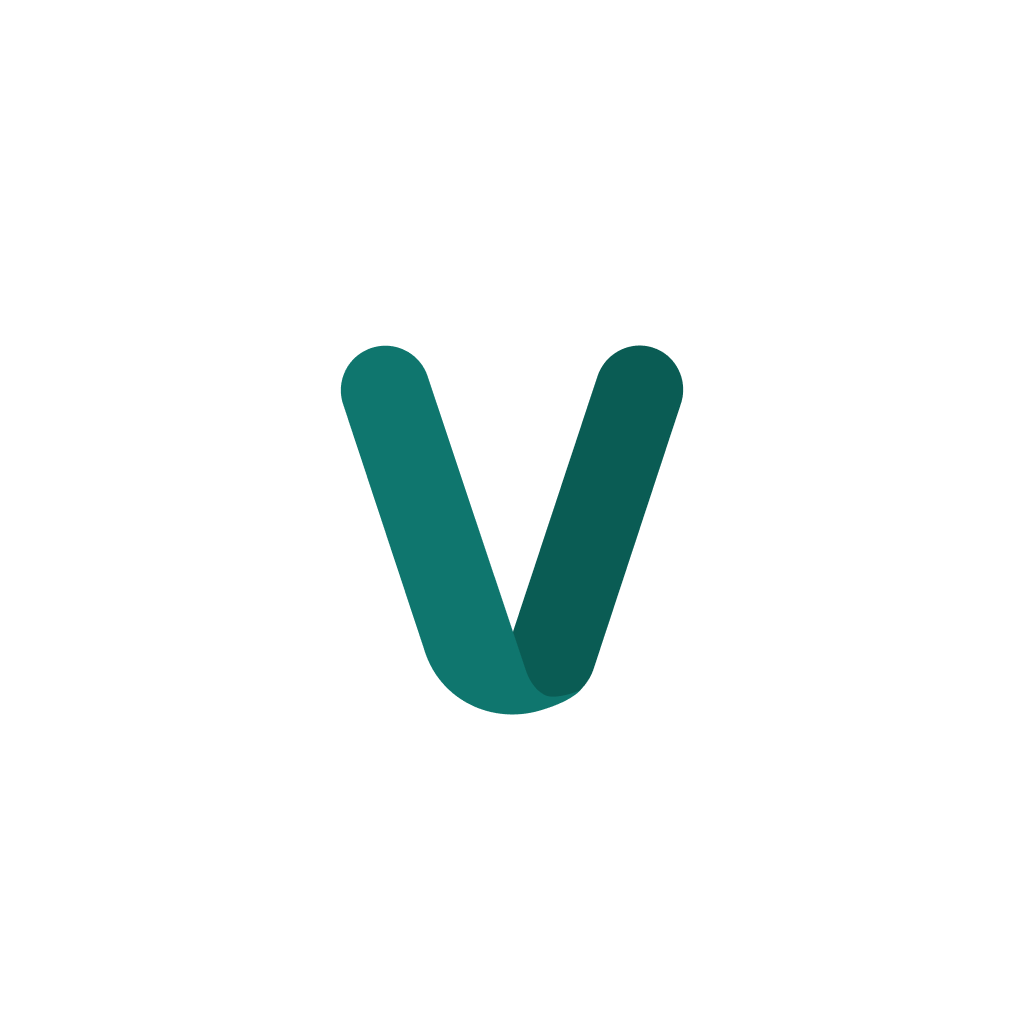
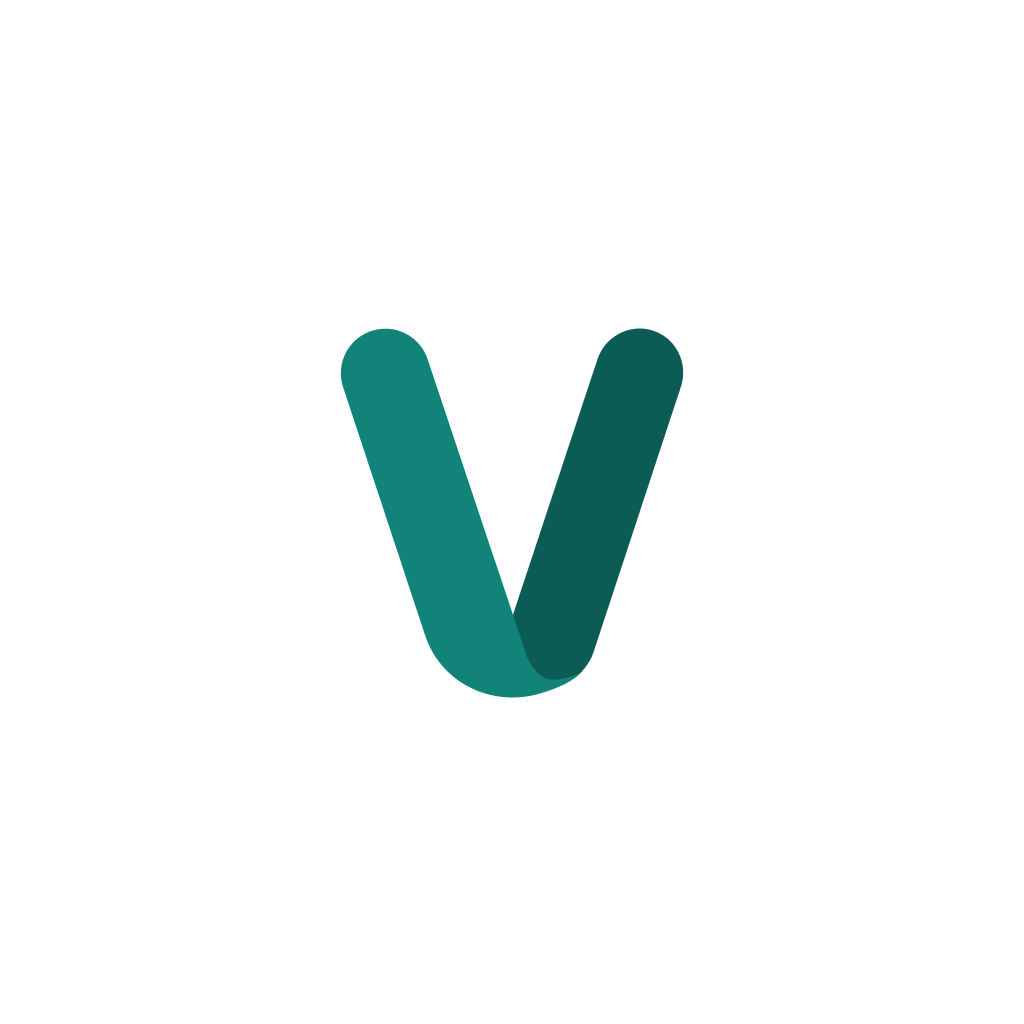
change primary color to be more accessible on dark and light backgrounds

diff --git a/packages/app/src/components/pages/LandingPage/Navigation/Navigation.tsx b/packages/app/src/components/pages/LandingPage/Navigation/Navigation.tsx
@@ -16,6 +16,10 @@ export const Navigation: React.FC<NavigationProps> = ({ scrollViewRef }) => {
     router.push("/signin");
   };
 
+  const handleCreateAccount = () => {
+    router.push("/signup");
+  };
+
   // For web only - navigation links
   const navigationItems = [
     { label: "Why Verena", href: "#why-verena" },
@@ -42,23 +46,22 @@ export const Navigation: React.FC<NavigationProps> = ({ scrollViewRef }) => {
 
   return (
     <XStack
-      backgroundColor="$background"
-      paddingHorizontal="$4"
-      paddingVertical="$3"
+      width="100%"
+      paddingHorizontal="$6"
+      paddingVertical="$4"
       alignItems="center"
       justifyContent="space-between"
-      borderBottomWidth={1}
-      borderBottomColor="$borderColor"
     >
       {/* Logo/Brand */}
-      <XStack alignItems="center" gap="$2" flex={1}>
+      <XStack alignItems="center" gap="$2" width={200}>
         <Icon width={32} height={32} />
         <Text fontSize="$6" fontWeight="bold" color="$color">
           Verena
         </Text>
       </XStack>
 
-      <XStack gap="$6" alignItems="center" justifyContent="center" flex={2}>
+      {/* Navigation Items - Centered */}
+      <XStack gap="$6" alignItems="center" justifyContent="center" flex={1}>
         {navigationItems.map((item) => (
           <Button
             key={item.label}
@@ -78,19 +81,33 @@ export const Navigation: React.FC<NavigationProps> = ({ scrollViewRef }) => {
       </XStack>
 
       {/* Action Buttons */}
-      <XStack gap="$3" alignItems="center" justifyContent="flex-end" flex={1}>
+      <XStack
+        gap="$3"
+        alignItems="center"
+        justifyContent="flex-end"
+        width={200}
+      >
         <Button
           variant="outlined"
           size="$3"
           onPress={handleSignIn}
           borderColor="$borderColor"
           color="$color"
-          backgroundColor="transparent"
           hoverStyle={{
             backgroundColor: "$background075",
           }}
         >
           Sign in
+        </Button>
+        <Button
+          size="$3"
+          onPress={handleCreateAccount}
+          backgroundColor="$primary"
+          hoverStyle={{
+            backgroundColor: "$primary2",
+          }}
+        >
+          <Text color="white">Create account</Text>
         </Button>
       </XStack>
     </XStack>

diff --git a/packages/app/src/components/pages/SignUpPage/SignUpPage.tsx b/packages/app/src/components/pages/SignUpPage/SignUpPage.tsx
@@ -59,6 +59,25 @@ export function SignUpPage() {
             secureTextEntry={true}
             onChangeText={(password) => setPassword(password)}
           />
+
+          <Stack
+            justifyContent="center"
+            alignItems="center"
+            paddingHorizontal="$2"
+          >
+            <Text fontSize="$2" textAlign="center" color="$gray10">
+              By creating an account, you agree to our{" "}
+              <Text
+                fontSize="$2"
+                color="$primary"
+                textDecorationLine="underline"
+                onPress={() => router.push("/terms")}
+              >
+                terms of service
+              </Text>
+            </Text>
+          </Stack>
+
           <Form.Trigger asChild>
             <Button disabled={isSigningUp}>
               {isSigningUp ? "Creating..." : "Create account"}

diff --git a/packages/app/src/constant.ts b/packages/app/src/constant.ts
@@ -1,4 +1,4 @@
-export const COLOR_PRIMARY = "rgba(15,118,110,1)"; // "#0F766E" //"rgba(18,135,18,1)" // #128712
-export const COLOR_PRIMARY_LIGHT = "rgba(15,118,110,0.5)";
+export const COLOR_PRIMARY = "rgba(17, 131, 121, 1)"; // "#0F766E" //"rgba(18,135,18,1)" // #128712
+export const COLOR_PRIMARY_LIGHT = "rgba(17, 131, 121,0.5)";
 export const COLOR_SECONDARY = "rgba(10,92,84,1)"; // ~#234D23 (H120 S37% L22%)
 export const LINEAR_GRADIENT = [COLOR_PRIMARY, COLOR_SECONDARY];
